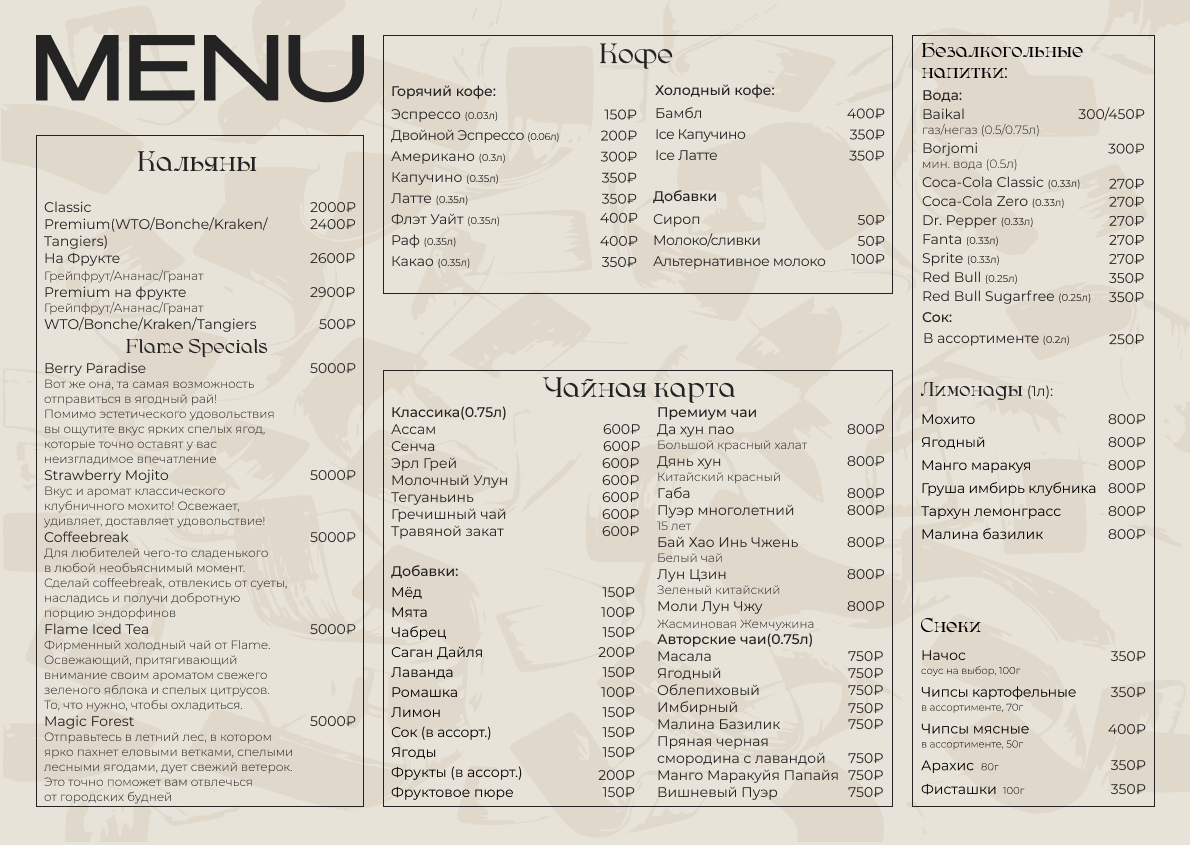
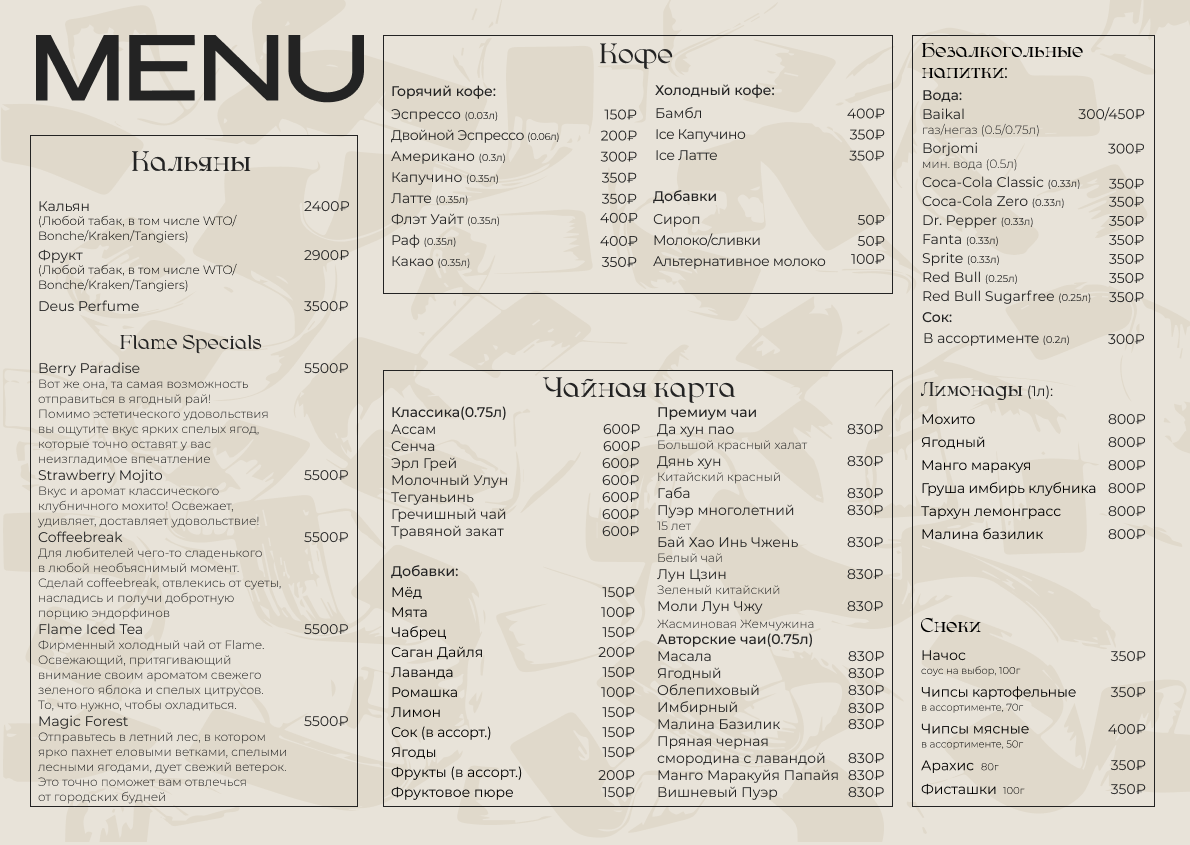
fix: add new menu

diff --git a/src/app/page.tsx b/src/app/page.tsx
@@ -1,22 +1,72 @@
 "use client";
 
 import Image from "next/image";
-import { motion } from "framer-motion";
+import { motion, AnimatePresence } from "framer-motion";
+import { useEffect, useState } from "react";
 
-const menus = [
+type TabKey =
+  | "all"
+  | "alcohol"
+  | "cocktails"
+  | "soft"
+  | "tea"
+  | "hookah"
+  | "kitchen";
+
+interface MenuImage {
+  src: string;
+  alt: string;
+}
+
+const tabs: { key: TabKey; label: string }[] = [
+  { key: "all", label: "Все" },
+  { key: "hookah", label: "Кальяны" },
+  { key: "alcohol", label: "Алкоголь" },
+  { key: "cocktails", label: "Коктейли" },
+  { key: "soft", label: "Безалкогольные напитки" },
+  { key: "tea", label: "Чай и кофе" },
+  { key: "kitchen", label: "Кухня" },
+];
+
+const desktopMenus: MenuImage[] = [
   { src: "/menu1.png", alt: "Основное меню" },
   { src: "/menu2.png", alt: "Барное меню" },
   { src: "/menu3.png", alt: "Кальяны и напитки" },
 ];
 
+const mobileMenus: Record<Exclude<TabKey, "all">, MenuImage[]> = {
+  hookah: [{ src: "/tabs_image/кальяны.png", alt: "Кальяны" }],
+  cocktails: [{ src: "/tabs_image/коктейли.png", alt: "Коктейли" }],
+  soft: [{ src: "/tabs_image/ба.png", alt: "Безалкогольные напитки" }],
+  alcohol: [{ src: "/tabs_image/алк.png", alt: "Алкоголь" }],
+  tea: [{ src: "/tabs_image/кофе.png", alt: "Чай и кофе" }],
+  kitchen: [{ src: "/menu3.png", alt: "Кухня" }],
+};
+
 export default function Home() {
+  const [activeTab, setActiveTab] = useState<TabKey>("all");
+  const [isMobile, setIsMobile] = useState<boolean>(false);
+
+  useEffect(() => {
+    const checkMobile = () => setIsMobile(window.innerWidth < 768);
+    checkMobile();
+    window.addEventListener("resize", checkMobile);
+    return () => window.removeEventListener("resize", checkMobile);
+  }, []);
+
+  const imagesToShow: MenuImage[] = isMobile
+    ? activeTab === "all"
+      ? Object.values(mobileMenus).flat()
+      : mobileMenus[activeTab as Exclude<TabKey, "all">] || []
+    : desktopMenus;
+
   return (
     <main className="min-h-screen bg-[#f7f2e9] flex flex-col items-center py-10 px-4">
       <motion.div
         initial={{ opacity: 0, y: -30 }}
         animate={{ opacity: 1, y: 0 }}
         transition={{ duration: 0.8 }}
-        className="flex items-center gap-4 mb-12"
+        className="flex items-center gap-4 mb-8"
       >
         <Image
           src="/logo.png"
@@ -25,30 +75,52 @@ export default function Home() {
           height={60}
           className="rounded-full"
         />
-        <h1 className="text-3xl md:text-6xl font-bold tracking-widest">
+        <h1 className="text-3xl md:text-6xl font-bold tracking-widest ">
           FLAME BY LUI
         </h1>
       </motion.div>
 
+      {isMobile && (
+        <div className="flex flex-wrap justify-center gap-2 mb-8">
+          {tabs.map((tab) => (
+            <motion.button
+              key={tab.key}
+              whileTap={{ scale: 0.9 }}
+              whileHover={{ scale: 1.05 }}
+              onClick={() => setActiveTab(tab.key)}
+              className={`px-4 py-2 rounded-full text-sm font-medium transition ${
+                activeTab === tab.key
+                  ? "bg-black text-white"
+                  : "bg-white text-black shadow"
+              }`}
+            >
+              {tab.label}
+            </motion.button>
+          ))}
+        </div>
+      )}
+
       <div className="grid md:grid-cols-2 gap-8 max-w-6xl w-full">
-        {menus.map((menu, index) => (
-          <motion.div
-            key={index}
-            initial={{ opacity: 0, scale: 0.9 }}
-            whileInView={{ opacity: 1, scale: 1 }}
-            transition={{ duration: 0.8, delay: index * 0.2 }}
-            viewport={{ once: true }}
-            className="shadow-lg rounded-2xl overflow-hidden bg-white"
-          >
-            <Image
-              src={menu.src}
-              alt={menu.alt}
-              width={1200}
-              height={800}
-              className="w-full h-auto object-contain"
-            />
-          </motion.div>
-        ))}
+        <AnimatePresence mode="wait">
+          {imagesToShow.map((menu, index) => (
+            <motion.div
+              key={menu.src}
+              initial={{ opacity: 0, y: 20, scale: 0.95 }}
+              animate={{ opacity: 1, y: 0, scale: 1 }}
+              exit={{ opacity: 0, y: -20, scale: 0.95 }}
+              transition={{ duration: 0.4, delay: index * 0.1 }}
+              className="shadow-lg rounded-2xl overflow-hidden bg-white"
+            >
+              <Image
+                src={menu.src}
+                alt={menu.alt}
+                width={1200}
+                height={800}
+                className="w-full h-auto object-contain"
+              />
+            </motion.div>
+          ))}
+        </AnimatePresence>
       </div>
     </main>
   );

diff --git a/src/app/layout.tsx b/src/app/layout.tsx
@@ -1,17 +1,28 @@
 import "./globals.css";
 import { Playfair_Display, Inter } from "next/font/google";
+import localFont from "next/font/local";
 
-const playfair = Playfair_Display({ subsets: ["latin", "cyrillic"], weight: "700" });
 const inter = Inter({ subsets: ["latin", "cyrillic"], weight: "400" });
 
 export const metadata = {
   title: "Flame Menu",
 };
 
-export default function RootLayout({ children }: { children: React.ReactNode }) {
+const myFont = localFont({
+  src: "../../public/Bergamasco Regular.ttf",
+  variable: "--font-flame",
+});
+
+export default function RootLayout({
+  children,
+}: {
+  children: React.ReactNode;
+}) {
   return (
     <html lang="ru">
-      <body className={`${inter.className} bg-[#f7f2e9]`}>
+      <body
+        className={`${inter.className} ${myFont.className} bg-[#f7f2e9] font-flame`}
+      >
         {children}
       </body>
     </html>

diff --git a/next.config.ts b/next.config.ts
@@ -1,7 +1,5 @@
 import type { NextConfig } from "next";
 
-const nextConfig: NextConfig = {
-  /* config options here */
-};
+const nextConfig: NextConfig = {};
 
 export default nextConfig;